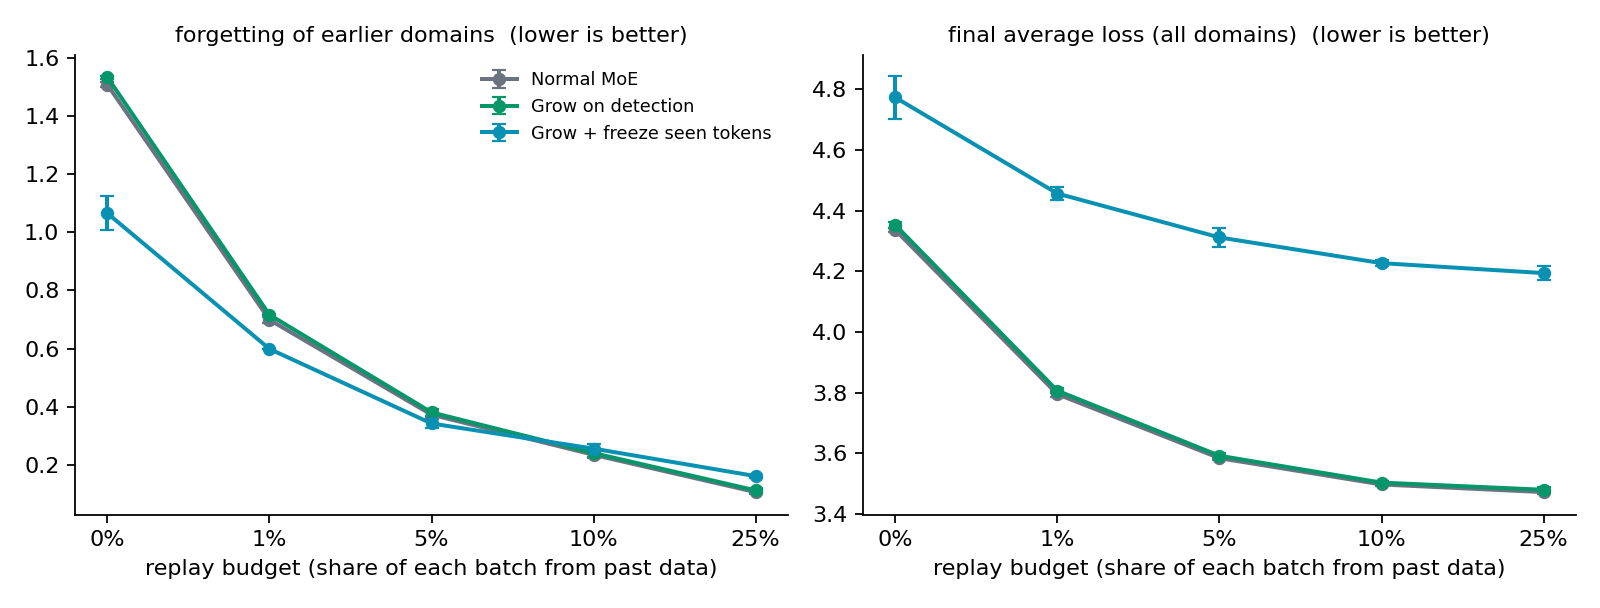
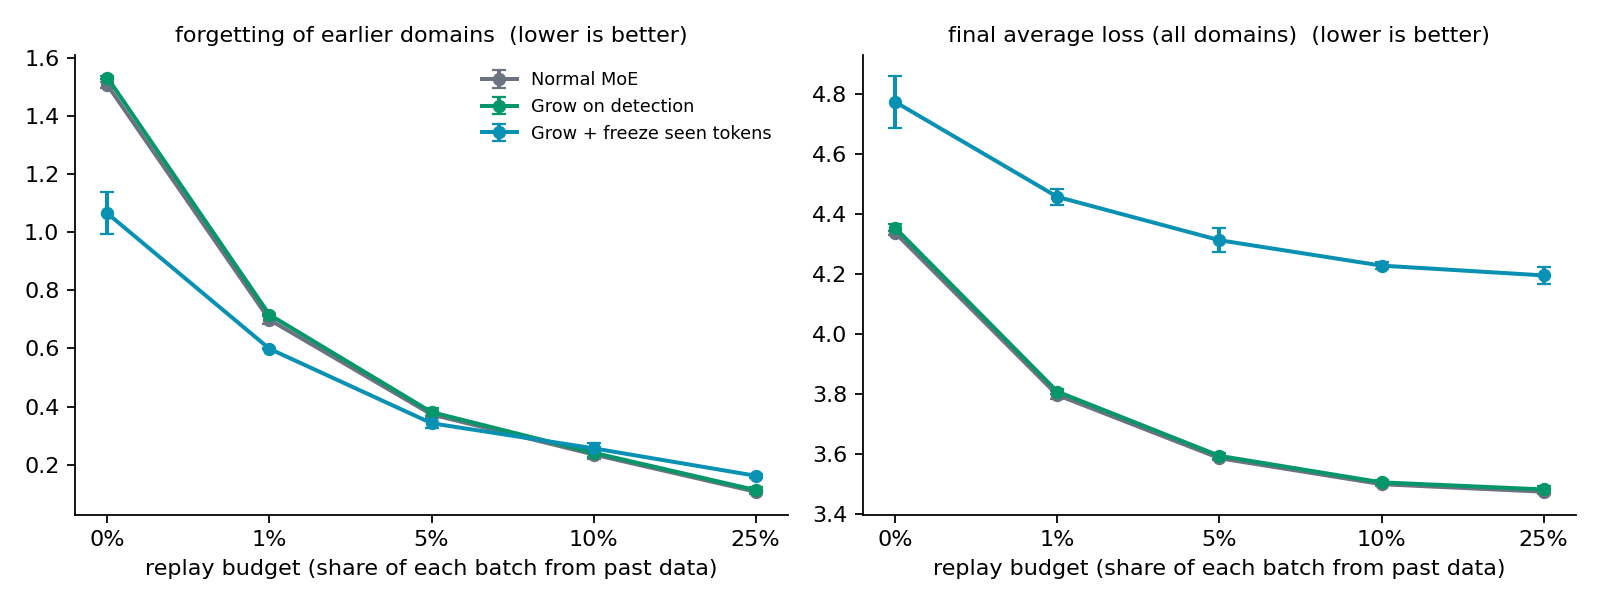
fix: sample-std error bars, drift-aware detection table; add analyze --paper

diff --git a/experiments/analyze.py b/experiments/analyze.py
@@ -17,6 +17,9 @@ Figures:
     sensitivity  detection vs shift size for two-phase mixture runs (day 8)
     drift        training loss for an abrupt switch vs gradual drift (day 9)
 
+Regenerate the published figures 1-10 exactly (fixed arm lists, PAPER_FIGURES):
+    python -m experiments.analyze --paper --results results --out results/figures
+
 Use --arms to restrict every figure to a readable subset, e.g.
     python -m experiments.analyze --arms toy_A toy_D toy_D_seen toy_A_replay --out figs/main
 """
@@ -64,6 +67,12 @@ ARM_COLORS.update({
 })
 DOMAIN_SHADES = ["#f3f4f6", "#e0f2fe", "#fef3c7", "#ede9fe"]
 _FALLBACK = ["#7c3aed", "#db2777", "#0891b2", "#65a30d", "#ea580c", "#4b5563", "#0d9488", "#9333ea"]
+
+
+def _sd(values) -> float:
+    """Sample standard deviation (n-1), matching summarize.py's tables; 0 for n<2."""
+    v = list(values)
+    return float(np.std(v, ddof=1)) if len(v) > 1 else 0.0
 
 
 def arm_color(arm: str) -> str:
@@ -161,7 +170,7 @@ def fig_heldout(runs: list[Run], out: Path) -> None:
                 continue
             xs = sorted(curves)
             mean = np.array([np.mean(curves[x]) for x in xs])
-            sd = np.array([np.std(curves[x]) for x in xs])
+            sd = np.array([_sd(curves[x]) for x in xs])
             c = arm_color(arm)
             ax.plot(xs, mean, color=c, lw=1.8, label=f"{ARM_LABELS.get(arm, arm)} (n={len(rs)})")
             if len(rs) > 1:
@@ -176,19 +185,23 @@ def fig_heldout(runs: list[Run], out: Path) -> None:
     plt.close(fig)
 
 
-def detection_table(runs: list[Run], out: Path, window: int = 100) -> None:
-    """Growth events vs true boundaries. A trigger within `window` steps after a
-    boundary counts as detecting it; any other trigger is a false trigger."""
+def detection_table(runs: list[Run], out: Path) -> None:
+    """Growth triggers vs true boundaries. The first trigger in
+    [boundary, next boundary) detects that boundary, with its delay — this
+    covers both the spike detector (a few steps) and the drift detector (often
+    hundreds of steps into a gradual ramp). Any other trigger — before the first
+    boundary, or a second one within the same phase — is a false trigger."""
     rows = []
     for r in runs:
-        if r.arm != "toy_D" and not any(e["reason"] in ("loss_spike", "loss_drift") for e in r.events):
-            continue
         trig = [e["step"] for e in r.events if e["reason"] in ("loss_spike", "loss_drift")]
+        if r.cfg.get("arm") != "signal" and not trig:
+            continue
         last = r.steps[-1]["step"] if r.steps else 0
         reached = [b for b in r.boundaries if b <= last]
+        ends = r.boundaries[1:] + [r.steps_per_phase * len(r.domains)]
         used, lat = set(), []
-        for b in reached:
-            hit = next((t for t in trig if b <= t < b + window and t not in used), None)
+        for b, end in zip(reached, ends):
+            hit = next((t for t in trig if b <= t < end), None)
             if hit is not None:
                 used.add(hit)
                 lat.append(hit - b)
@@ -204,10 +217,10 @@ def detection_table(runs: list[Run], out: Path, window: int = 100) -> None:
         w = csv.DictWriter(f, fieldnames=list(rows[0]))
         w.writeheader()
         w.writerows(rows)
-    print("detection (window=%d steps):" % window)
+    print("detection (first trigger in each boundary's phase):")
     for row in rows:
-        print(f"  {row['run']:<12} detected {row['detected']}/{row['boundaries_reached']} "
-              f"latency {row['latencies']}  false {row['false_triggers']}  "
+        print(f"  {row['run']:<20} detected {row['detected']}/{row['boundaries_reached']} "
+              f"delay {row['latencies']}  false {row['false_triggers']}  "
               f"{'' if row['complete'] else '(partial run)'}")
 
 
@@ -234,8 +247,8 @@ def fig_tradeoff(runs: list[Run], out: Path) -> None:
         ys = [r.summary["forgetting_avg"] for r in rs]
         c = arm_color(arm)
         ax.errorbar(np.mean(xs), np.mean(ys),
-                    xerr=np.std(xs) if len(rs) > 1 else None,
-                    yerr=np.std(ys) if len(rs) > 1 else None,
+                    xerr=_sd(xs) if len(rs) > 1 else None,
+                    yerr=_sd(ys) if len(rs) > 1 else None,
                     fmt="o", color=c, ms=7, capsize=3,
                     label=f"{ARM_LABELS.get(arm, arm)} (n={len(rs)})")
     ax.set_xlabel("loss on each new domain when its phase ends\n(lower = learned it better)")
@@ -312,7 +325,7 @@ def fig_budget(runs: list[Run], out: Path) -> None:
         bs = sorted(pts[name])
         for ax, key in zip(axes, ("forgetting_avg", "final_avg")):
             m = [np.mean([s[key] for s in pts[name][b]]) for b in bs]
-            sd = [np.std([s[key] for s in pts[name][b]]) for b in bs]
+            sd = [_sd(s[key] for s in pts[name][b]) for b in bs]
             ax.errorbar([pos[b] for b in bs], m, yerr=sd, color=color, marker="o",
                         ms=5, lw=1.8, capsize=3, label=name)
     for ax, title in zip(axes, ("forgetting of earlier domains", "final average loss (all domains)")):
@@ -355,7 +368,7 @@ def fig_source(runs: list[Run], out: Path) -> None:
                 arm = pattern.format(suffix)
                 v = [x[key] for x in by.get(arm, by.get(SOURCE_FALLBACK.get(arm, ""), []))]
                 m.append(np.mean(v) if v else np.nan)
-                sd.append(np.std(v) if len(v) > 1 else 0.0)
+                sd.append(_sd(v))
                 ns.append(len(v))
             xs = np.arange(len(SOURCE_SETTINGS)) + (j - 1) * width
             bars = ax.bar(xs, m, width, yerr=sd, color=color, capsize=3, label=label)
@@ -504,7 +517,7 @@ def fig_scale(runs: list[Run], out: Path) -> None:
             for suffix, _ in SCALE_ARMS:
                 v = [x[key] for x in by.get(f"{prefix}_{suffix}", [])]
                 m.append(np.mean(v) if v else np.nan)
-                sd.append(np.std(v) if len(v) > 1 else 0.0)
+                sd.append(_sd(v))
             xs = np.arange(len(SCALE_ARMS)) + (j - 0.5) * width
             ax.bar(xs, m, width, yerr=sd, color=color, capsize=3, label=size_label)
         ax.set_xticks(range(len(SCALE_ARMS)), [lab for _, lab in SCALE_ARMS], fontsize=8)
@@ -587,6 +600,54 @@ def fig_leak_scatter(runs: list[Run], out: Path) -> None:
     plt.close(fig)
 
 
+# The exact arm lists behind results/figures/1-10, so the published figures can
+# be regenerated from a results directory with one command (--paper).
+PAPER_FIGURES = [
+    ("1_tradeoff.png", "tradeoff",
+     ["toy_A", "toy_D", "toy_D_fexp", "toy_D_fall", "toy_D_femb", "toy_D_seen",
+      "toy_A_replay", "toy_D_replay", "toy_D_seen_replay", "toy_D_fall_replay"]),
+    ("2_heldout_curves.png", "heldout", ["toy_A", "toy_D", "toy_D_seen", "toy_A_replay"]),
+    ("3_detection.png", "detectplot", ["toy_D_seen"]),
+    ("4_router_leak.png", "leakplot",
+     ["toy_D_fall", "toy_D_fall_k2", "toy_D_fall_k4", "toy_D_fall_k8",
+      "toy_C_fall", "toy_C_fall_k4"]),
+    ("5_replay_budget.png", "budget",
+     ["toy_A", "toy_A_r01", "toy_A_r05", "toy_A_r10", "toy_A_replay",
+      "toy_D", "toy_D_r01", "toy_D_r05", "toy_D_r10", "toy_D_replay",
+      "toy_D_seen", "toy_D_seen_r01", "toy_D_seen_r05", "toy_D_seen_r10", "toy_D_seen_replay"]),
+    ("6_scale.png", "scale",
+     ["toy_A", "toy_D", "toy_A_r05", "toy_D_seen", "big_A", "big_D", "big_A_r05", "big_D_seen"]),
+    ("7_expert_source.png", "source",
+     ["toy_D_tmpl", "toy_D_gen", "toy_D_tmpl128", "toy_D_seen", "toy_D_seen_gen",
+      "toy_D_seen_tmpl128"]),
+    ("8_detection_sensitivity.png", "sensitivity",
+     ["shift_none", "shift_q05", "shift_q10", "shift_q25", "shift_q50"]),
+    ("9_gradual_drift.png", "drift", ["shift_q50", "drift_q50", "drift_q100"]),
+    ("10_drift_detector.png", "drift", ["drift_q100", "dd_drift_q100", "dd_drift_q50"]),
+]
+
+
+def make_paper_figures(results: Path, out: Path) -> None:
+    """Regenerate every published figure (results/figures/1-10) from ``results``."""
+    import shutil
+    import tempfile
+
+    all_runs = load_runs(results)
+    out.mkdir(parents=True, exist_ok=True)
+    for fname, fig, arms in PAPER_FIGURES:
+        runs = [r for r in all_runs if r.arm in set(arms)]
+        missing = sorted(set(arms) - {r.arm for r in runs})
+        if missing:
+            print(f"skip {fname}: no runs for {missing}")
+            continue
+        with tempfile.TemporaryDirectory() as td:
+            FIGURES[fig](runs, Path(td))
+            produced = list(Path(td).glob("*.png"))
+            assert len(produced) == 1, (fname, produced)
+            shutil.copyfile(produced[0], out / fname)
+        print(f"wrote {out / fname}  ({len(runs)} runs)")
+
+
 def main() -> None:
     p = argparse.ArgumentParser(description="Make figures from experiment logs.")
     p.add_argument("--results", type=Path, default=Path("results"))
@@ -597,8 +658,13 @@ def main() -> None:
                             "sensitivity", "drift"])
     p.add_argument("--arms", nargs="+", default=None,
                    help="only include these arms (run-name prefix before _s<seed>)")
+    p.add_argument("--paper", action="store_true",
+                   help="regenerate the published figures 1-10 (fixed arm lists)")
     args = p.parse_args()
     out = args.out or args.results / "figures"
+    if args.paper:
+        make_paper_figures(args.results, out)
+        return
     out.mkdir(parents=True, exist_ok=True)
     runs = load_runs(args.results)
     if args.arms:
@@ -635,6 +701,14 @@ def main() -> None:
     partial = [r.name for r in runs if not r.complete]
     print(f"wrote figures to {out}  ({len(runs)} runs"
           + (f", partial: {', '.join(partial)}" if partial else "") + ")")
+
+
+FIGURES = {
+    "experts": fig_experts, "heldout": fig_heldout, "tradeoff": fig_tradeoff,
+    "leakplot": fig_leak_scatter, "detectplot": fig_detection, "budget": fig_budget,
+    "scale": fig_scale, "source": fig_source, "sensitivity": fig_sensitivity,
+    "drift": fig_drift,
+}
 
 
 if __name__ == "__main__":
